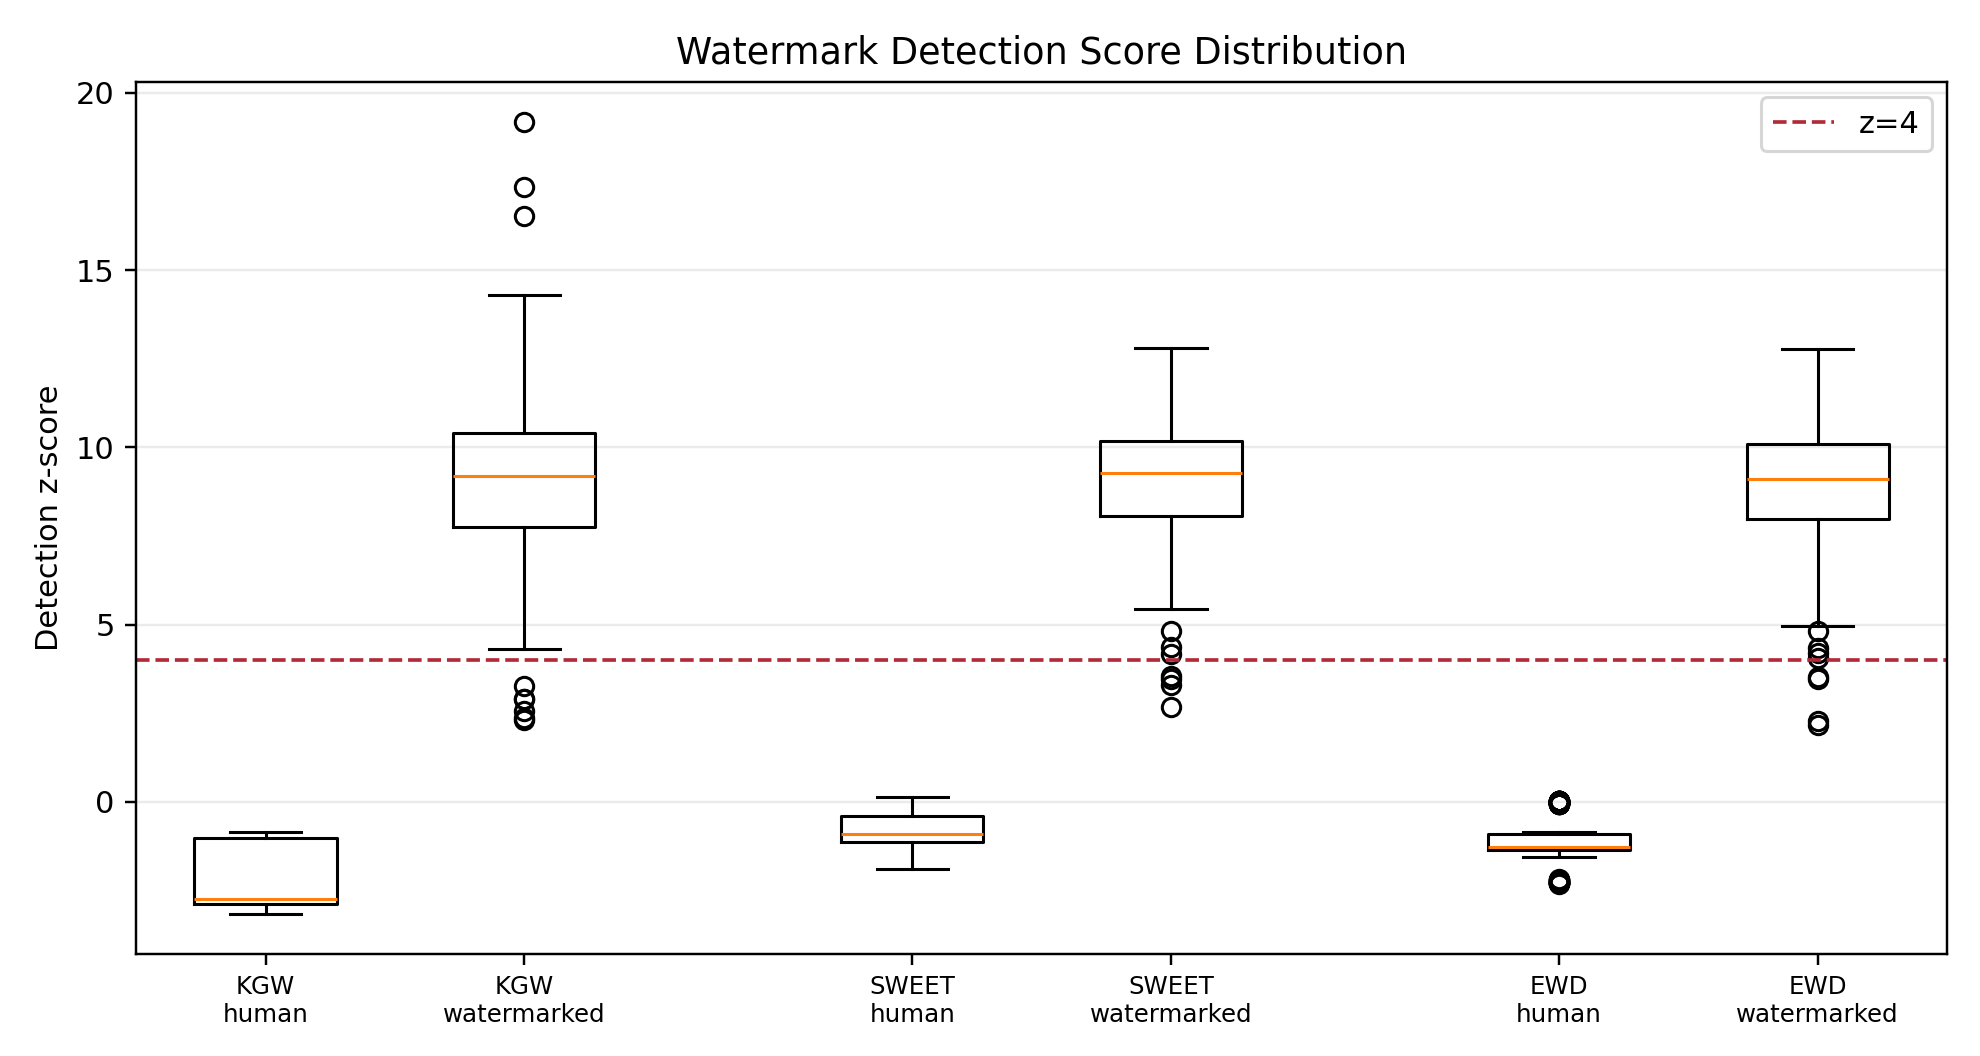
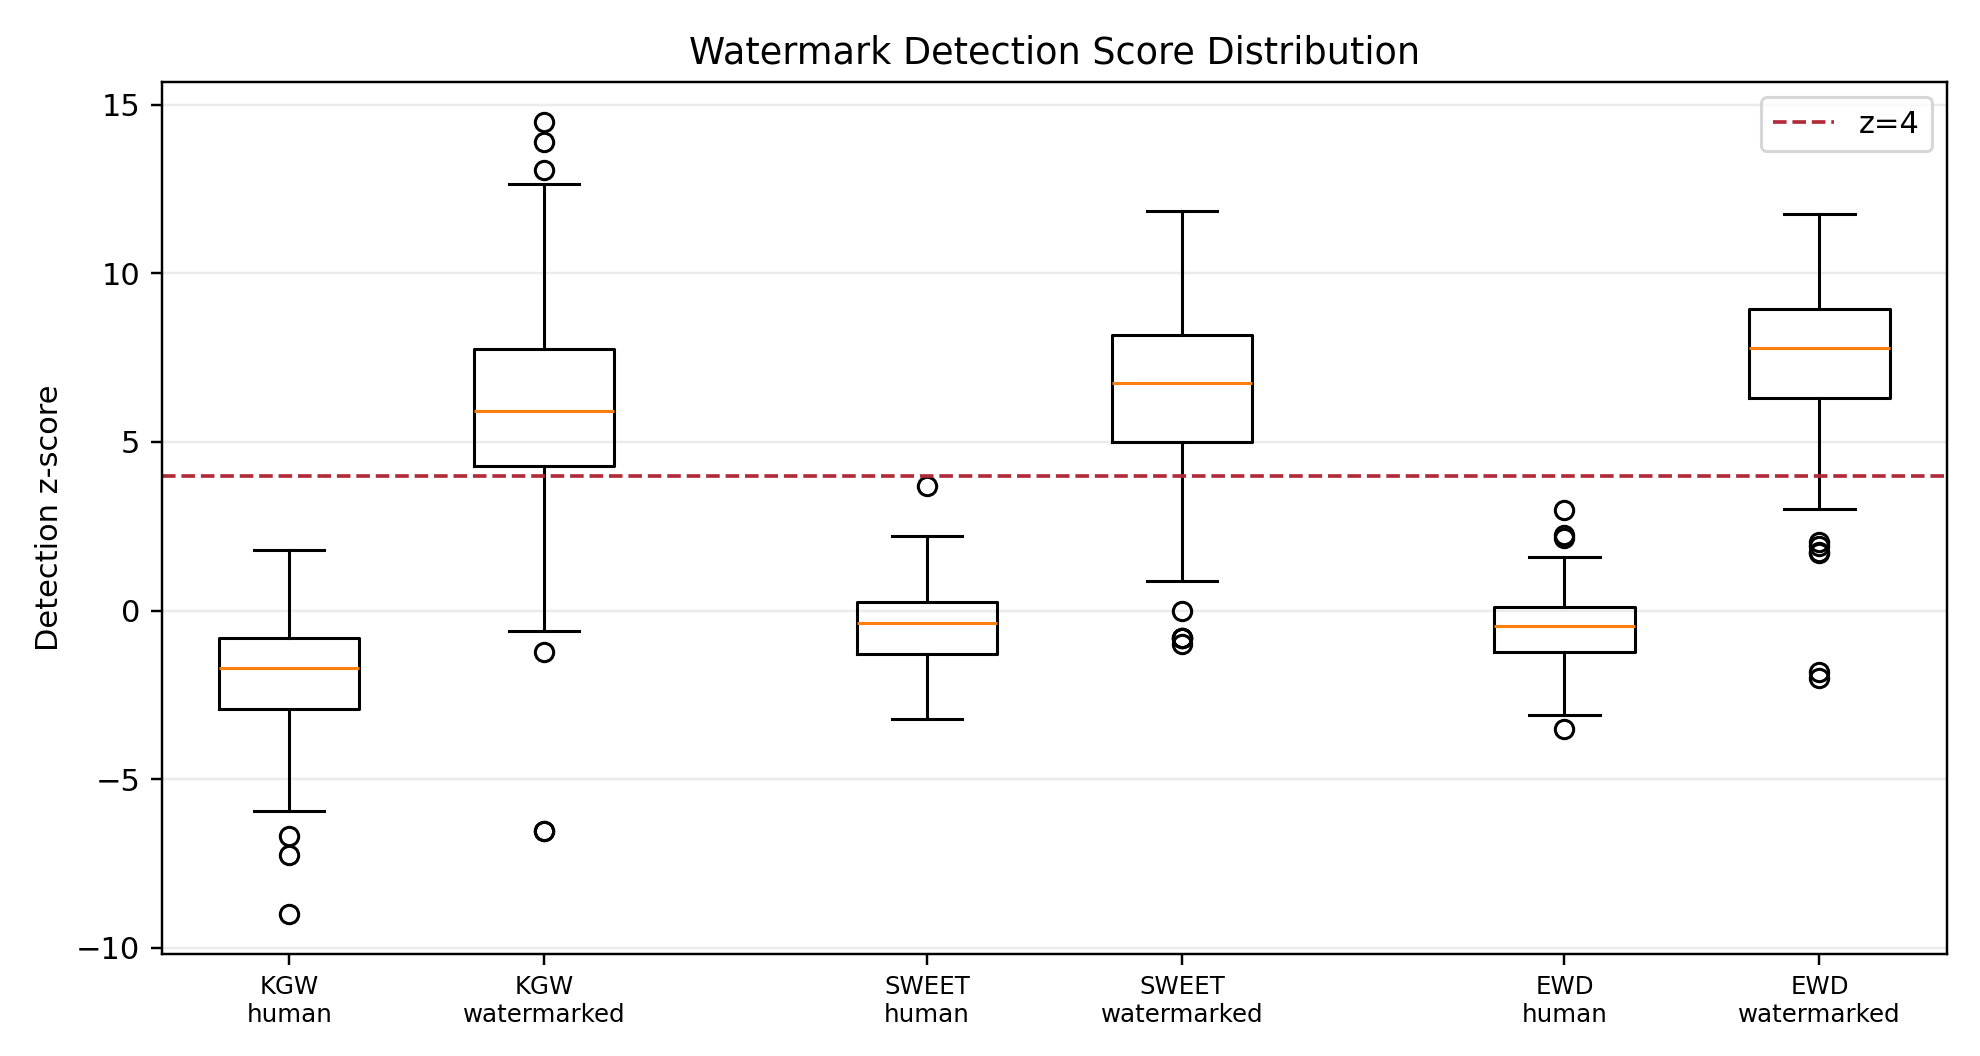
Use HumanEval dataset in Low-entropy scene

diff --git a/report/main.tex b/report/main.tex
@@ -28,11 +28,13 @@
 \setcounter{page}{1}
 
 \begin{abstract}
-大语言模型生成文本的自动化能力正在快速提升，随之而来的学术诚信、虚假信息生成和合成数据污染等问题，使文本水印成为信息安全领域的重要研究方向。本文围绕三种代表性 LLM 水印方案展开复现与对比：KGW 通过伪随机绿名单和 logit 偏置在生成阶段嵌入统计信号；SWEET 针对代码等低熵场景，只在高熵 token 上嵌入和检测水印；EWD 则在检测阶段引入熵加权统计量，为高熵 token 分配更高权重。实验实现了从数据读取、模型生成、水印嵌入、水印检测、perplexity 评估到结果作图的完整链路。正式云端实验使用 OPT-1.3B 生成、OPT-6.7B 计算 PPL，在 C4 RealNewsLike 500 条新闻文本和 200 条低熵结构化代码文本上评估三种方法。结果表明，三种方法均能有效区分 human 与 watermarked 文本；SWEET 在保持高检测性能的同时带来更低 PPL 增量；EWD 适合作为 KGW 生成文本的增强检测器，但本身不是独立生成水印方案。
+大语言模型生成文本的自动化能力正在快速提升，随之而来的学术诚信、虚假信息生成和合成数据污染等问题，使文本水印成为信息安全领域的重要研究方向。本文围绕三种代表性 LLM 水印方案展开复现与对比：KGW 通过伪随机绿名单和 logit 偏置在生成阶段嵌入统计信号；SWEET 针对代码等低熵场景，只在高熵 token 上嵌入和检测水印；EWD 则在检测阶段引入熵加权统计量，为高熵 token 分配更高权重。实验实现了从数据读取、模型生成、水印嵌入、水印检测、perplexity 评估到结果作图的完整链路。正式云端实验使用 OPT-1.3B 生成、OPT-6.7B 计算 PPL，在 C4 RealNewsLike 500 条新闻文本和 HumanEval 低熵代码任务上评估三种方法。结果表明，三种方法均能有效区分 human 与 watermarked 文本；SWEET 在保持高检测性能的同时带来更低 PPL 增量；EWD 适合作为 KGW 生成文本的增强检测器，但本身不是独立生成水印方案。
 \end{abstract}
 
 \section{背景和动机}
 生成式大语言模型已经能够完成新闻写作、课程作业、代码生成和问答等任务。模型输出越接近人类文本，越难通过人工方式判断来源，这会带来三个典型风险。第一，恶意用户可以批量生成虚假新闻、评论或社交媒体内容，增加内容审核难度。第二，学生或程序员可能提交模型生成文本或代码，造成学术诚信与版权归属争议。第三，如果未来训练数据中混入大量机器生成内容，模型训练和评测本身也可能被污染。因此，能够在文本生成阶段主动嵌入、在事后自动检测的水印机制，是一类具有现实意义的信息安全技术。
+
+与事后分类器不同，水印方法并不是在文本生成后再尝试识别写作风格，而是在生成过程中主动改变采样分布，使输出文本携带可统计检验的隐藏信号。这种思路的优势是检测结论可以用显式统计量解释，例如绿名单 token 的数量是否显著高于随机文本；不足之处是水印必须参与生成流程，且水印强度过高时可能损害文本质量。本文关注的 KGW、SWEET 和 EWD 都属于这一类围绕 token 采样分布设计的水印方法，因此实验重点放在“水印强度、检测准确性、文本质量损失”三者之间的权衡。
 
 传统数字水印常见于图像、音频和视频，其核心是在人类难以察觉的载体空间中嵌入可检测信号。LLM 文本水印的困难在于文本是离散 token 序列，任何 token 修改都可能改变语义、语法或代码功能。KGW \cite{kirchenbauer2023watermark} 提出了一个简单有效的方向：不直接修改已生成文本，而是在模型采样时轻微提高部分 token 的概率，让最终文本在统计上包含更多“绿名单 token”。SWEET \cite{lee2024sweet} 观察到代码生成等任务的 token 熵较低，强行偏置低熵 token 会破坏功能，偏置太弱又难以检测，于是提出只处理高熵 token。EWD \cite{lu2024ewd} 则认为检测阶段也应充分利用熵信息，不能把所有 token 一视同仁。三者形成从“基础生成水印”到“选择性生成水印”再到“熵加权检测”的发展脉络。
 
@@ -40,20 +42,28 @@
 \subsection{KGW 水印}
 KGW 的基本思想是：给定前文 token 和密钥，通过哈希函数确定一个伪随机种子，再把词表划分为绿名单 $G$ 和红名单 $R$。绿名单比例记为 $\gamma$。在生成第 $t$ 个 token 时，模型先输出原始 logit 向量，然后对所有绿名单 token 的 logit 加上偏置 $\delta$，再进行采样。若原始分布较高熵，绿名单 token 的采样概率会明显高于 $\gamma$；若文本不是由该水印生成，则 token 落入绿名单的概率近似为 $\gamma$。
 
+这里的关键不是固定某些词必须出现，而是轻微改变候选 token 的相对概率。对高熵位置而言，模型本来就有多个合理候选，给绿名单 token 加上 $\delta$ 往往不会明显破坏语义，却会累积出可检测的统计偏差。对低熵位置而言，模型几乎只有一个合理 token，例如代码缩进、括号、固定关键字或常见 API 片段，此时 logit 偏置要么不起作用，要么会把输出推向不自然甚至错误的 token。因此 KGW 的简单性也带来一个问题：它对所有位置一视同仁，难以区分“适合嵌入水印的位置”和“最好不要干预的位置”。
+
 检测时，检测器根据同一密钥和前文 token 复原每个位置的绿名单，统计待检测文本中绿名单 token 数 $|s|_G$。对于长度为 $T$ 的文本，KGW 使用一侧 z 检验：
 \[
 z = \frac{|s|_G - \gamma T}{\sqrt{T\gamma(1-\gamma)}}.
 \]
 当 $z$ 超过阈值时，判定文本含有水印。论文中常用 $z>4$ 作为较严格阈值，对应较低误报概率。
 
+KGW 检测端的另一个优势是轻量：只要知道密钥、绿名单生成规则和待检测文本，就能复现每个位置的绿名单，不需要重新运行原始生成模型。这一点适合平台侧或第三方审核场景。但如果要分析 token 熵、PPL 或与 SWEET/EWD 做同一框架下的比较，实验中仍需要加载语言模型来获得 logits 或计算质量指标。
+
 \subsection{SWEET 水印}
 KGW 在自然语言新闻生成等高熵场景中效果较好，但在代码生成中会遇到两类问题：低熵 token 往往由语法或上下文强约束决定，强行提高绿名单概率可能破坏代码正确性；同时，低熵 token 很难被水印偏置改变，继续把它们计入检测统计量会稀释 z-score。SWEET 因此引入熵阈值 $\tau$。在生成阶段，只有当当前位置模型分布熵 $H_t>\tau$ 时才执行 KGW 式绿名单 logit 偏置；在检测阶段，也只统计熵高于阈值的 token。
+
+换言之，SWEET 把 KGW 的“全位置加偏置”改成了“选择性加偏置”。如果某个位置的分布非常尖锐，说明模型对下一个 token 很确定，SWEET 会跳过该位置，避免为了水印而破坏代码结构或固定表达。如果某个位置分布较平坦，说明有多个候选都较自然，此时再施加绿名单偏置，既更容易产生绿名单 token，也更不容易造成明显质量下降。这个设计使 SWEET 同时改动了生成端和检测端：生成端少干预低熵 token，检测端也不让低熵 token 稀释统计量。
 
 设高熵 token 数为 $N^h$，其中绿名单 token 数为 $N^h_G$，SWEET 的检测统计量为：
 \[
 z = \frac{N^h_G - \gamma N^h}{\sqrt{N^h\gamma(1-\gamma)}}.
 \]
 这相当于过滤掉难以被水印影响的低熵位置，使检测更集中于水印真正可能改变采样结果的区域。
+
+熵阈值 $\tau$ 的选择决定了 SWEET 的取舍。阈值过低时，SWEET 接近 KGW，质量保护有限；阈值过高时，能保护更多低熵位置，但可计分 token 数减少，检测统计量可能不稳定。本文没有额外搜索阈值，而是保持统一配置，让 KGW、SWEET 和 EWD 在相同实验框架下比较，这样可以突出三种方法机制本身的差异。
 
 \subsection{EWD 检测}
 EWD 的核心贡献不在于提出新的生成器，而在于改造检测统计量。KGW 给所有 token 相同权重，SWEET 给高熵 token 权重 1、低熵 token 权重 0。EWD 认为 token 对检测结论的影响应与熵连续相关：高熵 token 更容易被水印偏置改变，因此应在检测中占更高权重；低熵 token 即使不在绿名单，也不应强烈削弱水印判断。
@@ -64,13 +74,19 @@ z' = \frac{|s|_G - \gamma\sum_i W_i}{\sqrt{\gamma(1-\gamma)\sum_i W_i^2}},
 \]
 其中 $|s|_G$ 表示绿名单 token 权重和。EWD 可以用于 KGW 或 SWEET 生成的文本；本实验为了隔离变量，默认让 EWD 复用 KGW 生成文本，只替换检测器。
 
+这种设置有助于避免把“生成质量变化”和“检测统计量变化”混在一起。由于 EWD 与 KGW 使用同一批生成文本，它们的 PPL 完全相同；如果 EWD 的 AUROC、TPR 或 z-score 更高，差异就来自检测端的熵加权，而不是来自生成文本本身更容易检测。EWD 的代价是检测时需要模型 logits 来计算 token 熵，因此部署成本高于只复现绿名单的 KGW 检测器。
+
 \section{实验设计}
 \subsection{模型和数据}
 正式实验遵循统一模型原则。生成模型配置为 \texttt{facebook/opt-1.3b}，PPL/oracle 模型配置为 \texttt{facebook/opt-6.7b}，OPT 模型来自 Open Pre-trained Transformer 系列 \cite{zhang2022opt}。检测和生成均使用同一密钥、同一绿名单比例 $\gamma=0.25$、同一 logit 偏置 $\delta=2.0$。
 
+选择统一模型而不是分别复现每篇论文的全部模型设置，是为了控制变量。KGW 原论文主要关注通用文本生成，SWEET 原论文使用代码模型并评估 pass@1，EWD 论文同时比较低熵代码和高熵文本。若完全照搬三篇论文的模型与数据，实验差异会同时来自算法、模型能力、数据分布和评测指标，难以判断某个指标变化究竟来自哪一部分。因此本文将三种算法放入同一实现框架中，对生成模型、检测密钥、采样参数和 PPL 计算方式进行统一，只比较水印生成器和检测器的差异。
+
 主实验使用 C4 的 RealNewsLike 子集 \cite{raffel2020c4}，共 500 条。每条样本文本被切分为 prompt 和 human completion，prompt 输入生成模型，生成长度设为 200 tokens；同一条 prompt 分别生成无水印文本、KGW 水印文本和 SWEET 水印文本，EWD 对 KGW 水印文本进行加权检测。
 
-补充实验使用 200 条低熵 Python 结构化代码样本。该数据集由项目脚本生成，每条样本包含固定风格的函数签名、任务说明和短函数体，用于模拟低熵、强结构 token 场景。需要说明的是，它是低熵压力测试数据，不等同于 HumanEval 或 MBPP 的真实代码生成基准。
+补充实验改用 HumanEval 低熵代码任务。HumanEval 每条样本包含函数签名、自然语言说明、示例和参考实现，更接近 SWEET 论文中的真实代码生成评测。项目早期使用过 200 条合成结构化 Python 样本，但该数据集区分度过强，三种方法的检测指标容易同时饱和，因此不再作为低熵对比的主要数据集。
+
+在数据组织上，每条样本都包含 \texttt{prompt} 和 \texttt{human\_completion}。human completion 作为负样本，用来估计误报；模型生成的水印 completion 作为正样本，用来估计检出率。HumanEval 的 prompt 通常已经包含函数签名、文档字符串和示例，这会让后续代码补全呈现更强的结构约束，因此比普通新闻文本更接近低熵场景。
 
 \subsection{评价指标}
 本文使用以下指标对比三种算法：
@@ -83,12 +99,18 @@ z' = \frac{|s|_G - \gamma\sum_i W_i}{\sqrt{\gamma(1-\gamma)\sum_i W_i^2}},
     \item 可计分 token 数和绿名单比例：用于解释水印嵌入强度和检测分数。
 \end{itemize}
 
+这些指标对应不同问题。AUROC 更关注排序能力，即水印文本是否整体排在人类文本前面；TPR@5\%FPR 更接近实际审核场景，因为误报过高会影响正常用户；$z>4$ 检出率则对应 KGW 论文中常用的固定阈值，便于解释统计显著性。PPL 不直接等于人类主观质量或代码正确率，但在统一 oracle 模型下可以反映生成分布是否被水印过度扭曲。对于 HumanEval，本文没有执行测试用例计算 pass@1，因此低熵实验的质量结论应理解为 PPL 层面的质量代理，而不是完整代码功能正确性结论。
+
 \subsection{代码实现}
 项目代码实现了完整实验链路。水印模块包含 KGW 和 SWEET 的生成处理器，可直接接入 HuggingFace 生成流程；同一模块还实现 KGW、SWEET 和 EWD 三类检测器。为保证检测和生成跨 CPU/GPU 一致，绿名单伪随机排列固定在 CPU 上生成，再搬运到目标设备。实验入口负责读取配置、加载模型、生成文本、计算检测分数和 PPL，并输出 CSV/JSONL；作图脚本根据结果绘制 z-score 分布、ROC 曲线和质量-可检测性权衡图。
+
+实验输出分为三类文件：\texttt{generations.jsonl} 保存每个样本的 prompt、生成文本、PPL 和正样本 z-score，便于追查具体失败案例；\texttt{scores.csv} 保存 human 与 watermarked 两类文本的逐样本检测分数；\texttt{metrics.csv} 汇总 AUROC、TPR@5\%FPR、平均 z-score 和平均 PPL 等指标。EWD 在配置中通过 \texttt{reuse\_generation\_from: KGW} 复用 KGW 生成文本，因此同一批文本可以分别由 KGW 检测器和 EWD 检测器打分。
 
 \section{实验结果与分析}
 \subsection{C4 RealNewsLike 主实验}
 表 \ref{tab:c4} 给出 C4 RealNewsLike 500 条主实验结果。三种方法都能有效区分 human 与 watermarked 文本，AUROC 均高于 0.995。在 $z>4$ 的固定阈值下，三种方法的误报率均为 0，检出率分别为 92.2\%、94.6\% 和 94.0\%。
+
+C4 新闻文本整体熵较高，模型在许多位置存在多个自然候选，因此三种方法都能形成明显的绿名单偏置。KGW 的平均水印 z-score 为 8.839，已经远高于严格阈值；SWEET 在只选择高熵 token 的情况下仍达到 9.716，说明跳过低熵位置并没有削弱总体检测，反而减少了一些无效或有害的干预；EWD 的 9.669 则说明熵加权检测在高熵文本中也能保持较强排序能力。
 
 \begin{table}[H]
 \centering
@@ -117,6 +139,8 @@ EWD & 9.669 & -0.056 & 0.9985 & 0.988 & 94.0\% & 0\% & 21.388 & +7.986 \\
 
 图 \ref{fig:zscore} 显示，human completion 的 z-score 集中在 0 附近，而水印文本整体明显高于 $z=4$ 阈值。KGW 和 SWEET 均存在少量低 z-score 离群点，主要来自过短生成或可计分 token 较少的样本；这说明固定阈值检测仍受文本长度影响。SWEET 的中位数 z-score 更高，同时 PPL 增量更低，说明选择性跳过低熵位置在高熵新闻场景中也能降低质量损失。
 
+从误报角度看，三种方法在 C4 实验中的 human 文本均没有超过 $z>4$ 阈值，说明在当前参数下统计检验较保守。需要注意的是，固定阈值并不能保证所有正样本都被检出：当生成文本过短、重复、提前结束，或者可计分 token 较少时，即使文本由水印模型生成，z-score 也可能低于阈值。因此报告同时使用 AUROC、TPR@5\%FPR 和固定阈值检出率，而不只看单个指标。
+
 \begin{figure}[H]
     \centering
     \includegraphics[width=0.72\textwidth]{roc_curves.png}
@@ -136,11 +160,13 @@ EWD & 9.669 & -0.056 & 0.9985 & 0.988 & 94.0\% & 0\% & 21.388 & +7.986 \\
 图 \ref{fig:tradeoff} 展示了质量与可检测性的权衡。SWEET 位于更低 PPL、更高 z-score 的区域，说明它在本实验中取得了更好的质量-检测折中。KGW 和 EWD 的 PPL 相同，是因为 EWD 直接复用 KGW 的生成文本。C4 500 中存在一个极端样本只生成了极短 completion，导致 KGW/EWD PPL 达到 1385.43，并拉高平均 PPL；剔除 PPL 大于 100 的极端值后，KGW 平均 PPL 约为 18.655，SWEET 约为 16.965，SWEET 仍然更优。
 
 \subsection{低熵代码补充实验}
-表 \ref{tab:code} 给出低熵代码补充实验结果。三种方法的 AUROC 和 TPR@5\%FPR 均达到 1.0，说明在该合成结构化数据上 human 与 watermarked 的分离非常明显。
+表 \ref{tab:code} 给出 HumanEval 低熵代码补充实验结果。相比旧合成结构化代码数据，HumanEval 的检测指标不再饱和，更能体现 KGW、SWEET 和 EWD 在真实代码任务中的差异。需要说明的是，本实验仍使用 OPT-1.3B 作为统一生成模型，并以 PPL 作为质量代理指标；它不是 SWEET 论文中使用 StarCoder 并计算 pass@1 的完整代码正确性评测。
+
+HumanEval 的结果更接近低熵场景的预期：所有方法仍然有效，但检测难度明显高于 C4。KGW 的 $z>4$ 检出率从 C4 的 92.2\% 降至 77.4\%，说明低熵代码 prompt 下，水印偏置并不总能稳定累积到足够高的 z-score。SWEET 通过跳过低熵位置降低了平均 PPL 增量，并把固定阈值检出率提高到 82.9\%。EWD 不改变生成文本，却把检出率提高到 92.1\%，说明在低熵检测时，连续熵权重比简单等权统计更能体现水印信号。
 
 \begin{table}[H]
 \centering
-\caption{低熵代码 200 条补充实验结果}
+\caption{HumanEval 164 条低熵代码补充实验结果}
 \label{tab:code}
 \small
 \resizebox{\textwidth}{!}{
@@ -148,9 +174,9 @@ EWD & 9.669 & -0.056 & 0.9985 & 0.988 & 94.0\% & 0\% & 21.388 & +7.986 \\
 \toprule
 算法 & 水印 z & human z & AUROC & TPR@5\%FPR & $z>4$ 检出 & $z>4$ 误报 & 平均 PPL & PPL 增量 \\
 \midrule
-KGW & 9.110 & -2.252 & 1.000 & 1.000 & 97.0\% & 0\% & 16.060 & +1.569 \\
-SWEET & 9.013 & -0.867 & 1.000 & 1.000 & 98.0\% & 0\% & 15.570 & +1.078 \\
-EWD & 8.932 & -1.082 & 1.000 & 1.000 & 98.0\% & 0\% & 16.060 & +1.569 \\
+KGW & 5.820 & -1.917 & 0.9803 & 0.951 & 77.4\% & 0\% & 12.353 & +4.128 \\
+SWEET & 6.418 & -0.417 & 0.9795 & 0.957 & 82.9\% & 0\% & 11.248 & +3.023 \\
+EWD & 7.395 & -0.483 & 0.9884 & 0.988 & 92.1\% & 0\% & 12.353 & +4.128 \\
 \bottomrule
 \end{tabular}
 }
@@ -159,18 +185,27 @@ EWD & 8.932 & -1.082 & 1.000 & 1.000 & 98.0\% & 0\% & 16.060 & +1.569 \\
 \begin{figure}[H]
     \centering
     \includegraphics[width=0.95\textwidth]{code_z_scores.png}
-    \caption{低熵代码补充实验中 human 与 watermarked z-score 分布}
+    \caption{HumanEval 低熵代码中 human 与 watermarked z-score 分布}
     \label{fig:code_zscore}
 \end{figure}
 
-图 \ref{fig:code_zscore} 显示，低熵代码数据中的 human z-score 明显偏负，watermarked z-score 则集中在较高区域，因此 ROC 指标达到饱和。SWEET 平均统计 87.18 个 token，而 KGW/EWD 平均统计 121.20 个 token，说明 SWEET 确实跳过了更多低熵位置；同时 SWEET 的 PPL 增量最低，符合其减少低熵 token 干预的设计目标。
+图 \ref{fig:code_zscore} 显示，HumanEval 中 watermarked 文本整体高于 human 文本，但三种方法的分离程度已有明显差别。KGW 的水印文本平均 z-score 为 5.820，严格阈值 $z>4$ 下检出率为 77.4\%；SWEET 将平均可计分 token 数从 KGW 的 120.88 降至 61.02，使检出率提高到 82.9\%，同时 PPL 增量从 +4.128 降至 +3.023；EWD 复用 KGW 生成文本，但通过熵加权检测把平均 z-score 提高到 7.395，AUROC 提高到 0.9884，$z>4$ 检出率达到 92.1\%。这说明 HumanEval 相比旧合成数据更能体现三种方法的取舍：SWEET 主要改善质量损失，EWD 主要增强检测统计量。
+
+同时也可以看到，SWEET 的 human z-score 均值从 KGW 的 -1.917 上升到 -0.417，这是因为 SWEET 只检测高熵 token，human 文本中可计分位置更少，分数更接近 0。EWD 的 human 均值为 -0.483，仍保持较低误报，并且水印文本均值最高。换言之，EWD 并不是简单抬高所有文本的 z-score，而是更有效地扩大了 watermarked 与 human 的间隔。
 
 \subsection{方法优缺点对比}
 KGW 的优点是结构简单、检测不需要访问模型参数，只要知道密钥和哈希规则即可复原绿名单，因此部署成本低、统计解释清晰。缺点是低熵文本中水印信号可能被固定语法或上下文约束削弱，若提高 $\delta$ 又可能损害文本质量。
 
-SWEET 解决的是“哪些 token 值得水印化”的问题：它跳过低熵位置，通常能降低对代码正确性或固定表达的破坏，同时提高有效统计样本中的绿名单比例。当前两组实验中，SWEET 都取得了最低 PPL 增量，说明它在质量保持方面有优势。
+SWEET 解决的是“哪些 token 值得水印化”的问题：它跳过低熵位置，通常能降低对代码正确性或固定表达的破坏，同时提高有效统计样本中的绿名单比例。当前结果中，SWEET 取得了最低 PPL 增量，说明它在质量保持方面有优势。
 
 EWD 解决的是“检测时怎样使用 token”的问题：它不再二值化地保留或删除 token，而是根据熵连续加权，因此比 KGW 更重视高熵 token，也比 SWEET 更少依赖人工阈值。不过 EWD 仍需要模型 logits，且本身不是独立生成水印方案。
+
+综合来看，三种方法适合的使用场景并不完全相同。如果系统需要最简单、最容易部署的水印方案，KGW 是清晰的基线；如果生成内容对局部 token 极其敏感，例如代码、公式或固定格式文本，SWEET 更适合用于降低质量损失；如果平台已经能够在检测端访问模型 logits 或代理模型，EWD 可以作为更强的检测统计量叠加在 KGW 生成文本上。本文的实验也支持这一判断：SWEET 的主要收益体现在 PPL，EWD 的主要收益体现在检测分数。
+
+\subsection{实验局限性}
+本文实验仍有若干局限。首先，为了统一框架，HumanEval 实验使用 OPT-1.3B 生成代码，而不是专门的代码模型 StarCoder；因此生成代码的可执行正确性不能直接代表 SWEET 原论文中的 pass@1 结果。其次，PPL 只能作为文本质量的代理指标，尤其在代码任务中，低 PPL 并不必然意味着代码能通过测试。第三，当前实验只覆盖了无攻击场景，没有进一步测试改写、截断、拼接、变量重命名、回译等水印去除攻击。最后，SWEET 的熵阈值和 KGW 的 $\gamma,\delta$ 都会影响质量与检测的平衡，本文固定参数是为了便于比较，但不是最优参数搜索。
+
+这些限制不影响本文的主要对比结论，但说明实验结果应被理解为“统一框架下的复现式比较”，而不是三篇论文完整实验设置的完全再现。若继续扩展，可以优先加入 MBPP 或 HumanEvalPack，并使用代码专用模型计算 pass@1；也可以把检测流程拆成不同攻击强度下的鲁棒性评测，从而更全面地评价水印在真实部署中的可靠性。
 
 \section{运行效果与复现}
 主实验命令如下：
@@ -182,7 +217,7 @@ python scripts/plot_results.py --results-dir results/opt_cloud_c4_500
 
 低熵代码补充实验命令如下：
 \begin{lstlisting}[language=bash]
-python scripts/make_low_entropy_code_dataset.py --output data/code_low_entropy_200.jsonl --samples 200
+python scripts/make_humaneval_dataset.py --output data/humaneval_164.jsonl
 python scripts/run_experiment.py --config configs/opt_cloud_code_low_entropy_ppl.yaml --output-dir results/opt_cloud_code_low_entropy
 python scripts/plot_results.py --results-dir results/opt_cloud_code_low_entropy
 \end{lstlisting}
@@ -190,9 +225,9 @@ python scripts/plot_results.py --results-dir results/opt_cloud_code_low_entropy
 当前实现会同时加载 OPT-1.3B 生成模型和 OPT-6.7B PPL/oracle 模型。若云端显存不足，\texttt{device\_map: auto} 会触发 CPU offload，运行速度会明显下降。后续可改造为两阶段流程：先只加载 OPT-1.3B 完成生成和检测，再释放显存并加载 OPT-6.7B 补算 PPL。
 
 \section{总结}
-本文完成了 KGW、SWEET、EWD 三种 LLM 水印算法的复现式对比。三者的关系可以概括为：KGW 提供基础绿名单偏置框架，SWEET 在生成和检测阶段引入熵阈值选择，EWD 在检测阶段引入连续熵权重。云端正式实验使用 OPT-1.3B/OPT-6.7B，在 C4 RealNewsLike 500 条主实验和 200 条低熵代码补充实验上均验证了水印检测的有效性。
+本文完成了 KGW、SWEET、EWD 三种 LLM 水印算法的复现式对比。三者的关系可以概括为：KGW 提供基础绿名单偏置框架，SWEET 在生成和检测阶段引入熵阈值选择，EWD 在检测阶段引入连续熵权重。云端正式实验使用 OPT-1.3B/OPT-6.7B，在 C4 RealNewsLike 500 条主实验和 HumanEval 低熵代码补充实验上验证水印检测的有效性。
 
-实验结果表明，在高熵新闻文本中，三种方法均能稳定区分 human 与 watermarked 文本，且 $z>4$ 阈值下没有误报；在低熵结构化代码中，SWEET 通过跳过低熵 token 获得更低 PPL 增量，体现出其质量保持优势。EWD 在本项目中应表述为“KGW 生成 + EWD 熵加权检测”，不能与 KGW、SWEET 完全并列为独立生成算法。
+实验结果表明，在高熵新闻文本中，三种方法均能稳定区分 human 与 watermarked 文本，且 $z>4$ 阈值下没有误报；在 HumanEval 低熵代码任务中，指标不再饱和，EWD 取得最高 AUROC 和严格阈值检出率，SWEET 则取得最低 PPL 增量。EWD 在本项目中应表述为“KGW 生成 + EWD 熵加权检测”，不能与 KGW、SWEET 完全并列为独立生成算法。
 
 从安全角度看，文本水印的价值不在于给出绝对不可绕过的证明，而在于提供低成本、可量化、可审计的来源证据。未来可以进一步扩展 HumanEval/MBPP 等真实代码数据集，并增加同义改写、回译、截断、拼接攻击等鲁棒性实验。
 

diff --git a/scripts/make_humaneval_dataset.py b/scripts/make_humaneval_dataset.py
@@ -1,0 +1,56 @@
+from __future__ import annotations
+
+import argparse
+import json
+from pathlib import Path
+
+
+def parse_args() -> argparse.Namespace:
+    parser = argparse.ArgumentParser(description="Create a HumanEval JSONL dataset for watermark experiments.")
+    parser.add_argument("--output", default="data/humaneval_164.jsonl")
+    parser.add_argument("--cache-dir", default="data/hf_datasets")
+    parser.add_argument("--split", default="test")
+    parser.add_argument("--samples", type=int, default=None, help="Optional limit for quick subsets.")
+    return parser.parse_args()
+
+
+def main() -> None:
+    args = parse_args()
+    try:
+        from datasets import load_dataset
+    except ImportError as exc:
+        raise SystemExit("Missing dependency: install with `python -m pip install datasets`.") from exc
+
+    dataset = load_dataset(
+        "openai/openai_humaneval",
+        split=args.split,
+        cache_dir=args.cache_dir,
+    )
+
+    output = Path(args.output)
+    output.parent.mkdir(parents=True, exist_ok=True)
+
+    written = 0
+    with output.open("w", encoding="utf-8") as f:
+        for row in dataset:
+            f.write(
+                json.dumps(
+                    {
+                        "id": row["task_id"],
+                        "prompt": row["prompt"],
+                        "human_completion": row["canonical_solution"],
+                        "entry_point": row.get("entry_point"),
+                    },
+                    ensure_ascii=False,
+                )
+                + "\n"
+            )
+            written += 1
+            if args.samples is not None and written >= args.samples:
+                break
+
+    print(f"Wrote {written} HumanEval samples to {output}")
+
+
+if __name__ == "__main__":
+    main()

diff --git a/docs/experiment_review.md b/docs/experiment_review.md
@@ -1,16 +1,16 @@
 # 对比实验审查
 
-本文档审查当前 KGW、SWEET、EWD 对比实验是否足以体现算法差别，并记录最新云端实验结果。
+本文档审查当前 KGW、SWEET、EWD 对比实验是否足以体现算法差别，并记录云端实验结果。
 
 ## 当前实验状态
 
-当前项目已经完成三类实验：
+当前项目已经完成 C4 主实验和 HumanEval 低熵补充实验：
 
 - `results/smoke`：tiny GPT-2 烟测，用于验证代码链路。
 - `results/opt_cloud_c4_500`：C4 RealNewsLike 500 条主实验，使用 OPT-1.3B 生成、OPT-6.7B 计算 PPL。
-- `results/opt_cloud_code_low_entropy`：低熵 Python 结构化代码 200 条补充实验，同样使用 OPT-1.3B/OPT-6.7B。
+- `results/opt_cloud_code_low_entropy`：HumanEval 164 条低熵代码补充实验，同样使用 OPT-1.3B/OPT-6.7B。
 
-其中 `results/opt_cloud_c4_500` 是正式主实验结果；`results/opt_cloud_code_low_entropy` 用于补充说明 SWEET/EWD 在低熵或结构化 token 场景中的行为差异。
+其中 `results/opt_cloud_c4_500` 是高熵新闻主实验结果；`results/opt_cloud_code_low_entropy` 用于观察低熵代码场景下 SWEET/EWD 的差异。
 
 ## C4 RealNewsLike 500 条结果
 
@@ -24,32 +24,32 @@ C4 500 条结果与 KGW 和 EWD 论文中的高熵新闻设置接近：OPT-1.3B 
 
 需要注意的是，C4 500 中 KGW/EWD 有一个极端样本只生成了极短 completion，导致 PPL 达到 1385.43，并拉高 mean PPL。剔除 `PPL > 100` 的极端值后，KGW mean PPL 约为 18.655，SWEET 约为 16.965。即使考虑该异常值，SWEET 的质量损失仍明显小于 KGW/EWD。
 
-## 低熵代码补充结果
+## HumanEval 低熵代码补充结果
 
 | 算法 | mean z | human mean z | AUROC | TPR@5%FPR | z>4 检出率 | z>4 误报率 | mean PPL | PPL vs Plain |
 | --- | ---: | ---: | ---: | ---: | ---: | ---: | ---: | ---: |
-| KGW | 9.110 | -2.252 | 1.000 | 1.000 | 97.0% | 0% | 16.060 | +1.569 |
-| SWEET | 9.013 | -0.867 | 1.000 | 1.000 | 98.0% | 0% | 15.570 | +1.078 |
-| EWD | 8.932 | -1.082 | 1.000 | 1.000 | 98.0% | 0% | 16.060 | +1.569 |
+| KGW | 5.820 | -1.917 | 0.9803 | 0.951 | 77.4% | 0% | 12.353 | +4.128 |
+| SWEET | 6.418 | -0.417 | 0.9795 | 0.957 | 82.9% | 0% | 11.248 | +3.023 |
+| EWD | 7.395 | -0.483 | 0.9884 | 0.988 | 92.1% | 0% | 12.353 | +4.128 |
 
-低熵代码数据中，human completion 更模板化，human z-score 明显偏低，三种方法的 AUROC 均达到 1.0。SWEET 平均只统计 87.18 个 token，而 KGW/EWD 平均统计 121.20 个 token，说明 SWEET 确实跳过了更多低熵位置；同时 SWEET 的 PPL 增量最低，符合其减少低熵 token 干预的设计目标。
+HumanEval 结果不再饱和，三种方法的 `z>4` 检出率分别为 77.4%、82.9% 和 92.1%。EWD 在 KGW 生成文本上取得最高 AUROC 与 TPR@5%FPR，说明熵加权检测在真实低熵代码任务中能更好地拉开 watermarked 与 human 的分数。SWEET 平均只统计 61.02 个 token，而 KGW/EWD 平均统计 120.88 个 token；同时 SWEET 的 PPL 增量最低，符合其减少低熵 token 干预的设计目标。
 
-该数据集是合成结构化 Python 片段，适合做低熵压力测试，但不能替代 HumanEval、MBPP 等真实代码生成数据集。报告中应将其表述为“低熵/结构化补充实验”，而不是完整代码生成基准。
+旧版 `data/code_low_entropy_200.jsonl` 是合成结构化 Python 片段，区分度过强，三种方法的 AUROC 容易同时达到 1.0。HumanEval 替换后，低熵对比效果更明显。
 
 ## 三种算法差异
 
-KGW 的核心差异是对所有可计分 token 使用绿名单 logit 偏置，并用绿名单比例计算 z-score。它适合展示基础水印强度和文本质量损失。当前结果中 KGW 在两个数据集上都能取得高检测分数，但 PPL 增量高于 SWEET。
+KGW 的核心差异是对所有可计分 token 使用绿名单 logit 偏置，并用绿名单比例计算 z-score。它适合展示基础水印强度和文本质量损失。当前结果中 KGW 能取得较高检测分数，但 PPL 增量高于 SWEET。
 
-SWEET 的核心差异是只在高熵 token 上嵌入和检测水印。当前结果中 SWEET 在 C4 与低熵代码上均保持较高检测性能，并取得更低 PPL 增量，是质量-检测折中最好的方法。
+SWEET 的核心差异是只在高熵 token 上嵌入和检测水印。当前结果中 SWEET 保持较高检测性能，并取得更低 PPL 增量，是质量-检测折中最好的方法。
 
 EWD 的核心差异是检测时按熵加权。EWD 在本项目中不是独立生成算法，而是“KGW 生成 + EWD 熵加权检测”。因此它的 PPL 与 KGW 相同，差异主要体现在 z-score、AUROC 和 TPR 指标上。
 
 ## 最终判断
 
-当前实验已经从“本地小样本链路验证”升级为“云端正式复现实验 + 低熵补充实验”。C4 500 条结果足以作为报告主实验；低熵代码结果可以支撑 SWEET/EWD 的熵相关设计分析。
+当前实验已经从“本地小样本链路验证”升级为“云端正式复现实验 + HumanEval 低熵补充实验”。C4 500 条结果足以作为高熵主实验；HumanEval 结果可以用于说明旧合成低熵数据指标饱和后，真实代码任务中三种方法的差异。
 
 若继续扩展，优先级如下：
 
-- 使用 HumanEval 或 MBPP 替代合成代码数据，得到更接近 SWEET 论文设置的真实代码实验。
+- 若时间允许，可继续增加 MBPP 作为第二个真实代码数据集。
 - 增加鲁棒性测试，如截断、改写、拼接、回译等攻击。
 - 改造脚本为两阶段流程，先生成/检测，再单独加载 OPT-6.7B 补算 PPL，以降低双模型同时加载造成的显存压力。

diff --git a/README.md b/README.md
@@ -6,10 +6,10 @@
 - SWEET: 在 KGW 基础上只对高熵 token 嵌入和检测水印。
 - EWD: 熵加权水印检测方法。EWD 本身主要是检测器，本项目默认复用 KGW 生成文本，再用 EWD 加权 z-score 检测。
 
-当前正式结果已经完成云端复现实验：
+当前仓库包含已完成的云端复现实验：
 
 - 主实验：`results/opt_cloud_c4_500`，C4 RealNewsLike 500 条，OPT-1.3B 生成，OPT-6.7B 计算 PPL。
-- 补充实验：`results/opt_cloud_code_low_entropy`，低熵 Python 结构化代码 200 条，OPT-1.3B 生成，OPT-6.7B 计算 PPL。
+- 补充实验：`results/opt_cloud_code_low_entropy`，HumanEval 164 条代码任务，OPT-1.3B 生成，OPT-6.7B 计算 PPL。
 - 早期 200 条 C4 结果保留在 `results/opt_cloud_full`，小模型烟测保留在 `results/smoke`。
 
 ## 目录结构
@@ -70,10 +70,10 @@ python scripts\prepare_assets.py --config configs\opt_cloud_c4_500_ppl.yaml --hf
 python scripts\prepare_assets.py --config configs\opt_full.yaml --hf-mirror --skip-models --dataset-samples 500 --dataset-output data\c4_realnewslike_500.jsonl
 ```
 
-生成低熵代码补充数据：
+生成 HumanEval 低熵代码补充数据：
 
 ```powershell
-python scripts\make_low_entropy_code_dataset.py --output data\code_low_entropy_200.jsonl --samples 200
+python scripts\make_humaneval_dataset.py --output data\humaneval_164.jsonl
 ```
 
 ## 快速烟测
@@ -113,20 +113,20 @@ C4 RealNewsLike 500 条主实验：
 | SWEET | 9.716 | -0.057 | 0.9982 | 0.994 | 94.6% | 0% | 17.239 | +3.837 |
 | EWD | 9.669 | -0.056 | 0.9985 | 0.988 | 94.0% | 0% | 21.388 | +7.986 |
 
-低熵代码 200 条补充实验：
+HumanEval 164 条低熵代码补充实验：
 
 | 算法 | mean z | human mean z | AUROC | TPR@5%FPR | z>4 检出率 | z>4 误报率 | mean PPL | PPL vs Plain |
 | --- | ---: | ---: | ---: | ---: | ---: | ---: | ---: | ---: |
-| KGW | 9.110 | -2.252 | 1.000 | 1.000 | 97.0% | 0% | 16.060 | +1.569 |
-| SWEET | 9.013 | -0.867 | 1.000 | 1.000 | 98.0% | 0% | 15.570 | +1.078 |
-| EWD | 8.932 | -1.082 | 1.000 | 1.000 | 98.0% | 0% | 16.060 | +1.569 |
+| KGW | 5.820 | -1.917 | 0.9803 | 0.951 | 77.4% | 0% | 12.353 | +4.128 |
+| SWEET | 6.418 | -0.417 | 0.9795 | 0.957 | 82.9% | 0% | 11.248 | +3.023 |
+| EWD | 7.395 | -0.483 | 0.9884 | 0.988 | 92.1% | 0% | 12.353 | +4.128 |
 
 结果说明：
 
 - C4 500 主实验中，三种方法都能有效区分 human 与 watermarked 文本，且 `z>4` 阈值下没有误报。
+- HumanEval 低熵实验不再像旧合成数据那样指标饱和，三种方法的差异更清楚。
 - SWEET 在两个数据集上都表现出更低的 PPL 增量，说明选择性跳过低熵 token 有助于降低质量损失。
-- EWD 复用 KGW 生成文本，因此 PPL 与 KGW 相同；它的差异体现在检测统计量上。
-- 低熵代码数据是合成结构化补充集，可用于观察熵相关检测行为，但不能等同于 HumanEval/MBPP 的真实代码生成评测。
+- EWD 复用 KGW 生成文本，因此 PPL 与 KGW 相同；它的差异体现在检测统计量上，HumanEval 中 AUROC 和 `z>4` 检出率最高。
 
 ## 报告
 

diff --git a/docs/cloud_test.md b/docs/cloud_test.md
@@ -8,7 +8,7 @@
 
 - `configs/`
 - `data/c4_realnewslike_500.jsonl`
-- `data/code_low_entropy_200.jsonl`
+- `data/humaneval_164.jsonl`
 - `scripts/`
 - `watermark_lab/`
 - `requirements.txt`
@@ -53,7 +53,7 @@ python scripts/plot_results.py --results-dir results/opt_cloud_c4_500
 运行低熵代码补充实验：
 
 ```bash
-python scripts/make_low_entropy_code_dataset.py --output data/code_low_entropy_200.jsonl --samples 200
+python scripts/make_humaneval_dataset.py --output data/humaneval_164.jsonl
 python scripts/run_experiment.py --config configs/opt_cloud_code_low_entropy_ppl.yaml --output-dir results/opt_cloud_code_low_entropy
 python scripts/plot_results.py --results-dir results/opt_cloud_code_low_entropy
 ```